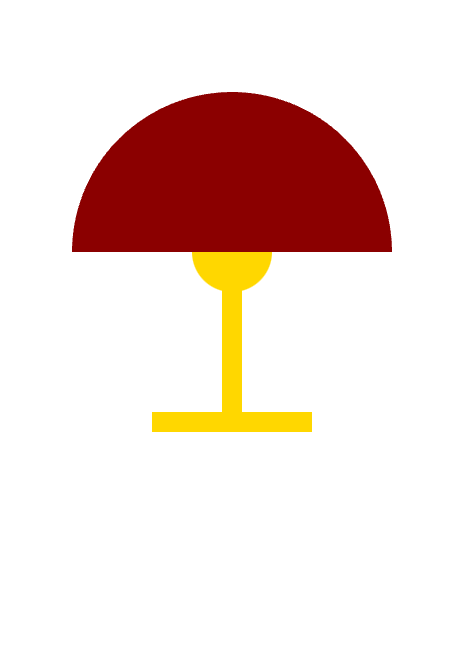
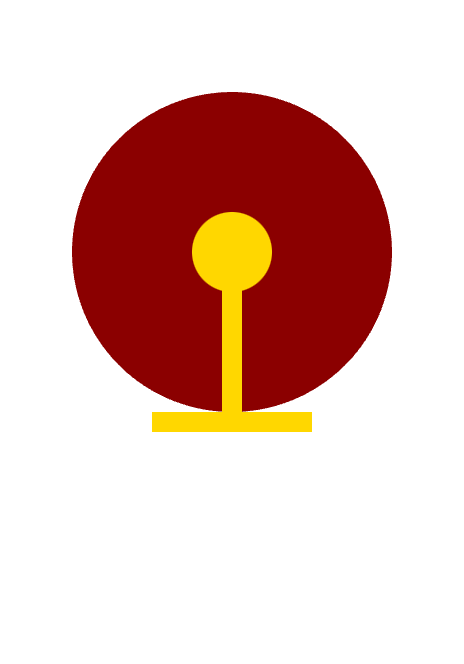
you'd think it were there. More like a turn table.

Changed region(s): [[0.1509, 0.3012, 0.8448, 0.6325]]

diff --git a/App.tsx b/App.tsx
@@ -1,8 +1,28 @@
 import { StatusBar } from 'expo-status-bar';
-import { View, Text } from 'react-native';
+import { View, Text, Image, Animated, Easing } from 'react-native';
+import { Container } from 'components/Container';
+import pic from './assets/icon.png';
 import './global.css';
+import { useEffect,useRef } from 'react';
 
 export default function App() {
+  const spinValue = useRef(new Animated.Value(0)).current;
+  useEffect(() => {
+    Animated.loop(
+      Animated.timing(spinValue, {
+        toValue: 1,
+        duration: 2000,
+        easing: Easing.linear,
+        useNativeDriver: true,
+      })
+    ).start();
+  }, [spinValue]);
+
+  const spin = spinValue.interpolate({
+    inputRange: [0, 1],
+    outputRange: ['0deg', '360deg'],
+  });
+
   return (
     <>
       <StatusBar style="auto" />
@@ -11,7 +31,16 @@ export default function App() {
         <Text className="mt-2 text-green-600">
           This is a test to check if Tailwind (NativeWind) is working correctly.
         </Text>
+        <Container>
+          <View>
+           <Animated.Image 
+           source={pic}
+           className={"w-22 h-22"}
+           style={{transform: [{rotate:spin}]}}
+           />
       </View>
+       </Container>
+       </View>
     </>
   );
 }
